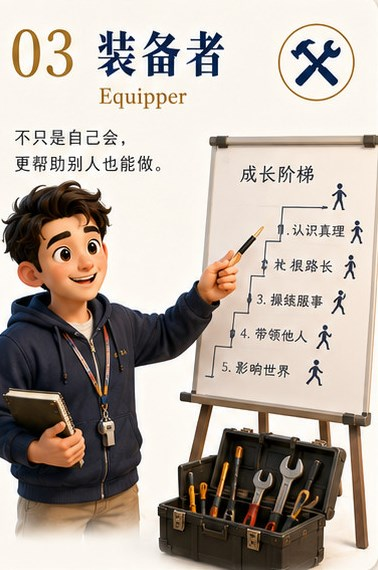
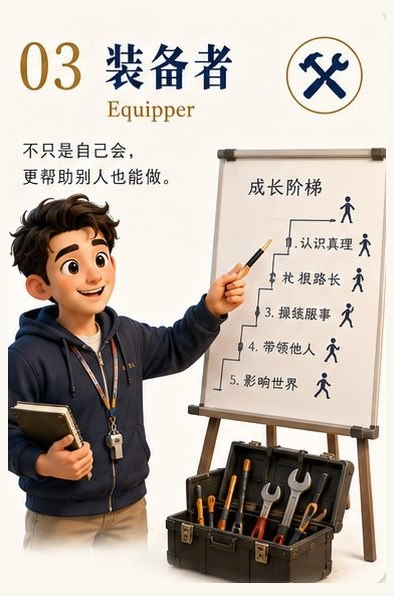
archetypes 卡图统一为 394x596 画布（与 App 同步）

diff --git a/index.html b/index.html
@@ -83,9 +83,9 @@
 })();
 </script>
 <script>(function(){var l=document.createElement("link");l.rel="preload";l.as="image";l.href="assets/img/hero-"+(document.documentElement.dataset.theme==="night"?"night":"day")+".webp";document.head.appendChild(l);})();</script>
-<script src="assets/js/supabase-config.js?v=202608271456"></script>
+<script src="assets/js/supabase-config.js?v=202608281219"></script>
 <link rel="preconnect" href="https://fonts.googleapis.com"><link rel="preconnect" href="https://fonts.gstatic.com" crossorigin><link href="https://fonts.googleapis.com/css2?family=Noto+Serif+SC:wght@600;700;900&display=swap" rel="stylesheet">
-<link rel="stylesheet" href="assets/css/main.css?v=202608271456">
+<link rel="stylesheet" href="assets/css/main.css?v=202608281219">
 </head>
 <body>
 <a class="skip-link" href="#main" data-i18n="actions.skip">跳到主要内容</a>
@@ -1174,6 +1174,6 @@
 </div>
 
 <div class="toast" id="toast" role="status" aria-live="polite"></div>
-<script src="assets/js/main.js?v=202608271456"></script>
+<script src="assets/js/main.js?v=202608281219"></script>
 </body>
 </html>

diff --git a/giving.html b/giving.html
@@ -6,9 +6,9 @@
 <meta name="robots" content="noindex,nofollow">
 <title>与我们同工 | AMAS</title>
 <link rel="icon" href="assets/img/favicon.png">
-<script src="assets/js/supabase-config.js?v=202608271456"></script>
+<script src="assets/js/supabase-config.js?v=202608281219"></script>
 <link rel="preconnect" href="https://fonts.googleapis.com"><link rel="preconnect" href="https://fonts.gstatic.com" crossorigin><link href="https://fonts.googleapis.com/css2?family=Noto+Serif+SC:wght@600;700;900&display=swap" rel="stylesheet">
-<link rel="stylesheet" href="assets/css/main.css?v=202608271456">
+<link rel="stylesheet" href="assets/css/main.css?v=202608281219">
 <style>
   body{background:var(--bg,#f7f1e6)}
   .gv-wrap{max-width:760px;margin:0 auto;padding:34px 18px 70px}

diff --git a/admin.html b/admin.html
@@ -6,7 +6,7 @@
 <meta name="robots" content="noindex,nofollow">
 <title>AMAS 招生后台</title>
 <link rel="icon" href="assets/img/favicon.png">
-<script src="assets/js/supabase-config.js?v=202608271456"></script>
+<script src="assets/js/supabase-config.js?v=202608281219"></script>
 <script src="https://cdn.jsdelivr.net/npm/@supabase/supabase-js@2/dist/umd/supabase.min.js"></script>
 <style>
 *{box-sizing:border-box}

diff --git a/login.html b/login.html
@@ -287,7 +287,7 @@ body::before{
 </div>
 <div class="toast" id="toast"></div>
 
-<script src="assets/js/supabase-config.js?v=202608271456"></script>
+<script src="assets/js/supabase-config.js?v=202608281219"></script>
 <script>
 const $ = (s)=>document.querySelector(s);
 const $$ = (s)=>[...document.querySelectorAll(s)];
